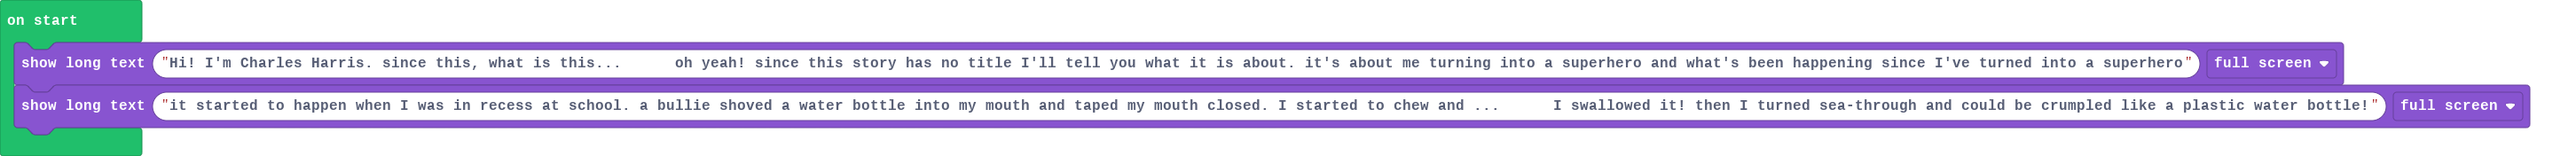
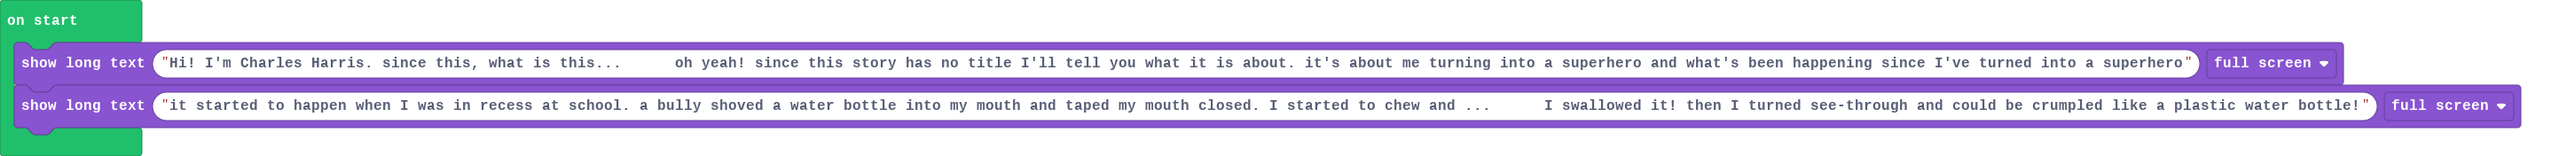
Update main.blocks, main.ts

Changed region(s): [[0.0311, 0.2841, 0.933, 0.5398], [0.0311, 0.625, 0.9641, 0.7102]]

diff --git a/main.ts b/main.ts
@@ -1,2 +1,2 @@
 game.showLongText("Hi! I'm Charles Harris. since this, what is this...      oh yeah! since this story has no title I'll tell you what it is about. it's about me turning into a superhero and what's been happening since I've turned into a superhero", DialogLayout.Full)
-game.showLongText("it started to happen when I was in recess at school. a bullie shoved a water bottle into my mouth and taped my mouth closed. I started to chew and ...      I swallowed it! then I turned sea-through and could be crumpled like a plastic water bottle!", DialogLayout.Full)
+game.showLongText("it started to happen when I was in recess at school. a bully shoved a water bottle into my mouth and taped my mouth closed. I started to chew and ...      I swallowed it! then I turned see-through and could be crumpled like a plastic water bottle!", DialogLayout.Full)
